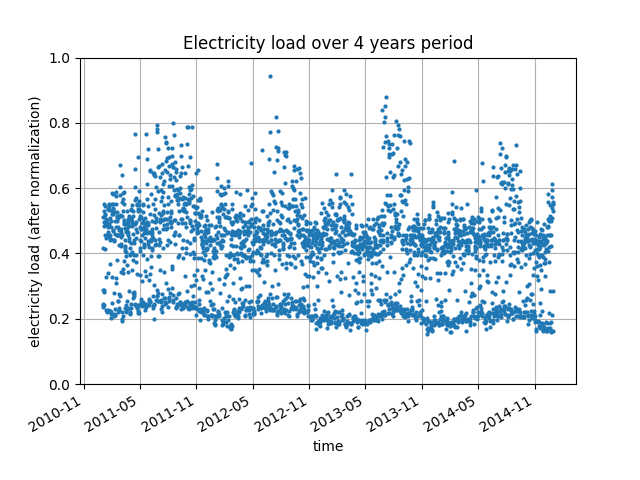
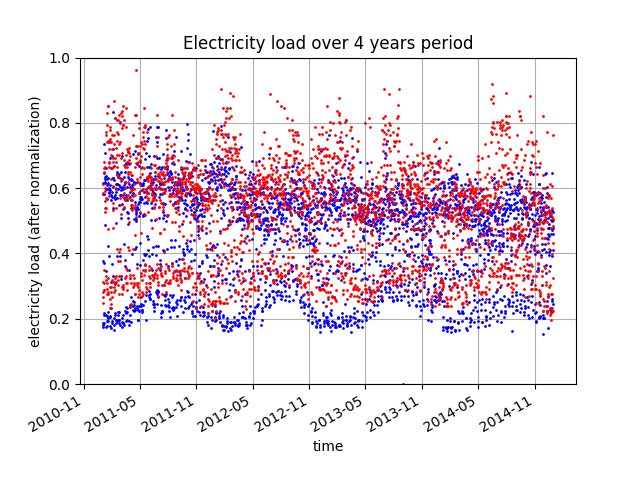
makes template for different regressors

Changed region(s): [[0.1562, 0.1875, 0.875, 0.7188]]

diff --git a/ElectricityLoad/analysis_util.py b/ElectricityLoad/analysis_util.py
@@ -1,0 +1,67 @@
+import numpy as np
+import pandas as pd
+import matplotlib.pyplot as plt
+import sklearn
+from sklearn.model_selection import train_test_split
+
+
+def load_dataset(path, na_values = np.NaN):
+    return pd.read_csv(path, low_memory=False, na_values=na_values)
+
+
+def draw_correlation():
+    dataset = load_dataset("../datasets/electricity_load/LD2011_2014_preprocessed.txt")
+
+    # correlation
+    plt.scatter(dataset['client1'], dataset['client2'], s=2)
+    plt.xlabel("Client 1 electricity load")
+    plt.ylabel("Client 2 electricity load")
+    plt.title("Positive correlation between two clients")
+    plt.savefig("correlation.png")
+    plt.clf()
+
+
+def calc_regression(regressor, name):
+    dataset = load_dataset("../datasets/electricity_load/LD2011_2014_preprocessed.txt")
+
+    # we don't need time - it's irrelevant
+    dataset = dataset.drop('Date', axis = 1)
+    X = dataset.drop('client2', axis = 1)
+
+    X_train, X_test, Y_train, Y_test = train_test_split(
+        X , dataset["client2"], test_size = 0.3, random_state = 5
+    )
+
+    # training
+    regressor.fit(X, dataset["client2"])
+    pred_train = regressor.predict(X_train)
+    pred_test = regressor.predict(X_test)
+
+    #####################
+    #  results          #
+    #####################
+    fig, ax = plt.subplots()
+    ax.set_xlim([0, 1])
+    ax.set_ylim([0, 1])
+    ax.grid()
+    plt.scatter(Y_test, pred_test, s=1)
+    plt.xlabel("Actual electricity load")
+    plt.ylabel("Predicted electricity load")
+    plt.title("Actual vs Predicted electricity load")
+    plt.savefig(name + "-actualVsPredict.png")
+
+    # residual plot
+    plt.cla()
+    plt.scatter(pred_train, pred_train - Y_train, c='b', s=1, alpha=0.5)
+    plt.scatter(pred_test, pred_test - Y_test, c = 'g', s=1)
+    plt.hlines(y=0, xmin=0, xmax = 1)
+    plt.title('Residual Plot using training (blue) and test (green) data')
+    plt.ylabel('Residuals')
+    plt.savefig(name + "-residuals.png")
+
+    print("Fit a model on X_train and calculate Mean-squared error with Y_train: ", np.mean((Y_train-pred_train) ** 2))
+    print("Fit a model on X_train and calculate Mean-squared error with X_test, Y_test: ", np.mean((Y_test-pred_test) ** 2))
+
+
+if __name__ == '__main__':
+    draw_correlation()

diff --git a/ElectricityLoad/preprocessing.py b/ElectricityLoad/preprocessing.py
@@ -36,9 +36,10 @@ def normalize_dataset(dataset):
 
 
 def prepare_values(dataset):
-    dataset.columns = ["Date", "Value"]
+    dataset.columns = ["Date", "client1", "client2"]
 
-    dataset["Value"] = dataset["Value"].apply(lambda x: float(x.replace(',', '.')))
+    dataset["client1"] = dataset["client1"].apply(lambda x: float(x.replace(',', '.')))
+    dataset["client2"] = dataset["client2"].apply(lambda x: float(x.replace(',', '.')))
     return dataset
 
 
@@ -50,8 +51,8 @@ if __name__ == '__main__':
 
     dataset = clear_dataset(dataset)
 
-    # take just one client - we must model them separately anyhow
-    dataset = dataset[dataset.columns[0:15:14]]
+    # take two clients - we must model them separately anyhow
+    dataset = dataset[dataset.columns[0:12:5]]
 
     dataset = prepare_values(dataset)
 

diff --git a/ElectricityLoad/plotter.py b/ElectricityLoad/plotter.py
@@ -10,7 +10,8 @@ dataset = pd.read_csv(file_name, low_memory=False, skiprows=[0])
 
 # Data for plotting
 time = dataset[dataset.columns[0:1]].values[::50].tolist()
-values = dataset[dataset.columns[1:2]].values[::50].tolist()
+values_1 = dataset[dataset.columns[1:2]].values[::50].tolist()
+values_2 = dataset[dataset.columns[2:3]].values[::50].tolist()
 
 # 2011-01-06 12:15:00 format
 time = date2num([datetime.datetime.strptime(x[0], "%Y-%m-%d %H:%M:%S") for x in time])
@@ -31,7 +32,8 @@ ax.set_ylim([0, 1])
 
 ax.grid()
 
-ax.plot(time, values, 'o', markersize=2)
+ax.plot(time, values_1, 'bo', markersize=1)
+ax.plot(time, values_2, 'ro', markersize=1)
 
 fig.autofmt_xdate()
 

diff --git a/ElectricityLoad/analysis_knn.py b/ElectricityLoad/analysis_knn.py
@@ -1,0 +1,6 @@
+from ElectricityLoad.analysis_util import calc_regression
+from sklearn.neighbors import KNeighborsRegressor
+
+
+if __name__ == "__main__":
+    calc_regression(KNeighborsRegressor(), "knn_regression")

diff --git a/ElectricityLoad/analysis_linearRegression.py b/ElectricityLoad/analysis_linearRegression.py
@@ -1,0 +1,6 @@
+from ElectricityLoad.analysis_util import calc_regression
+from sklearn.linear_model import LinearRegression
+
+
+if __name__ == "__main__":
+    calc_regression(LinearRegression(), "linear_regression")
